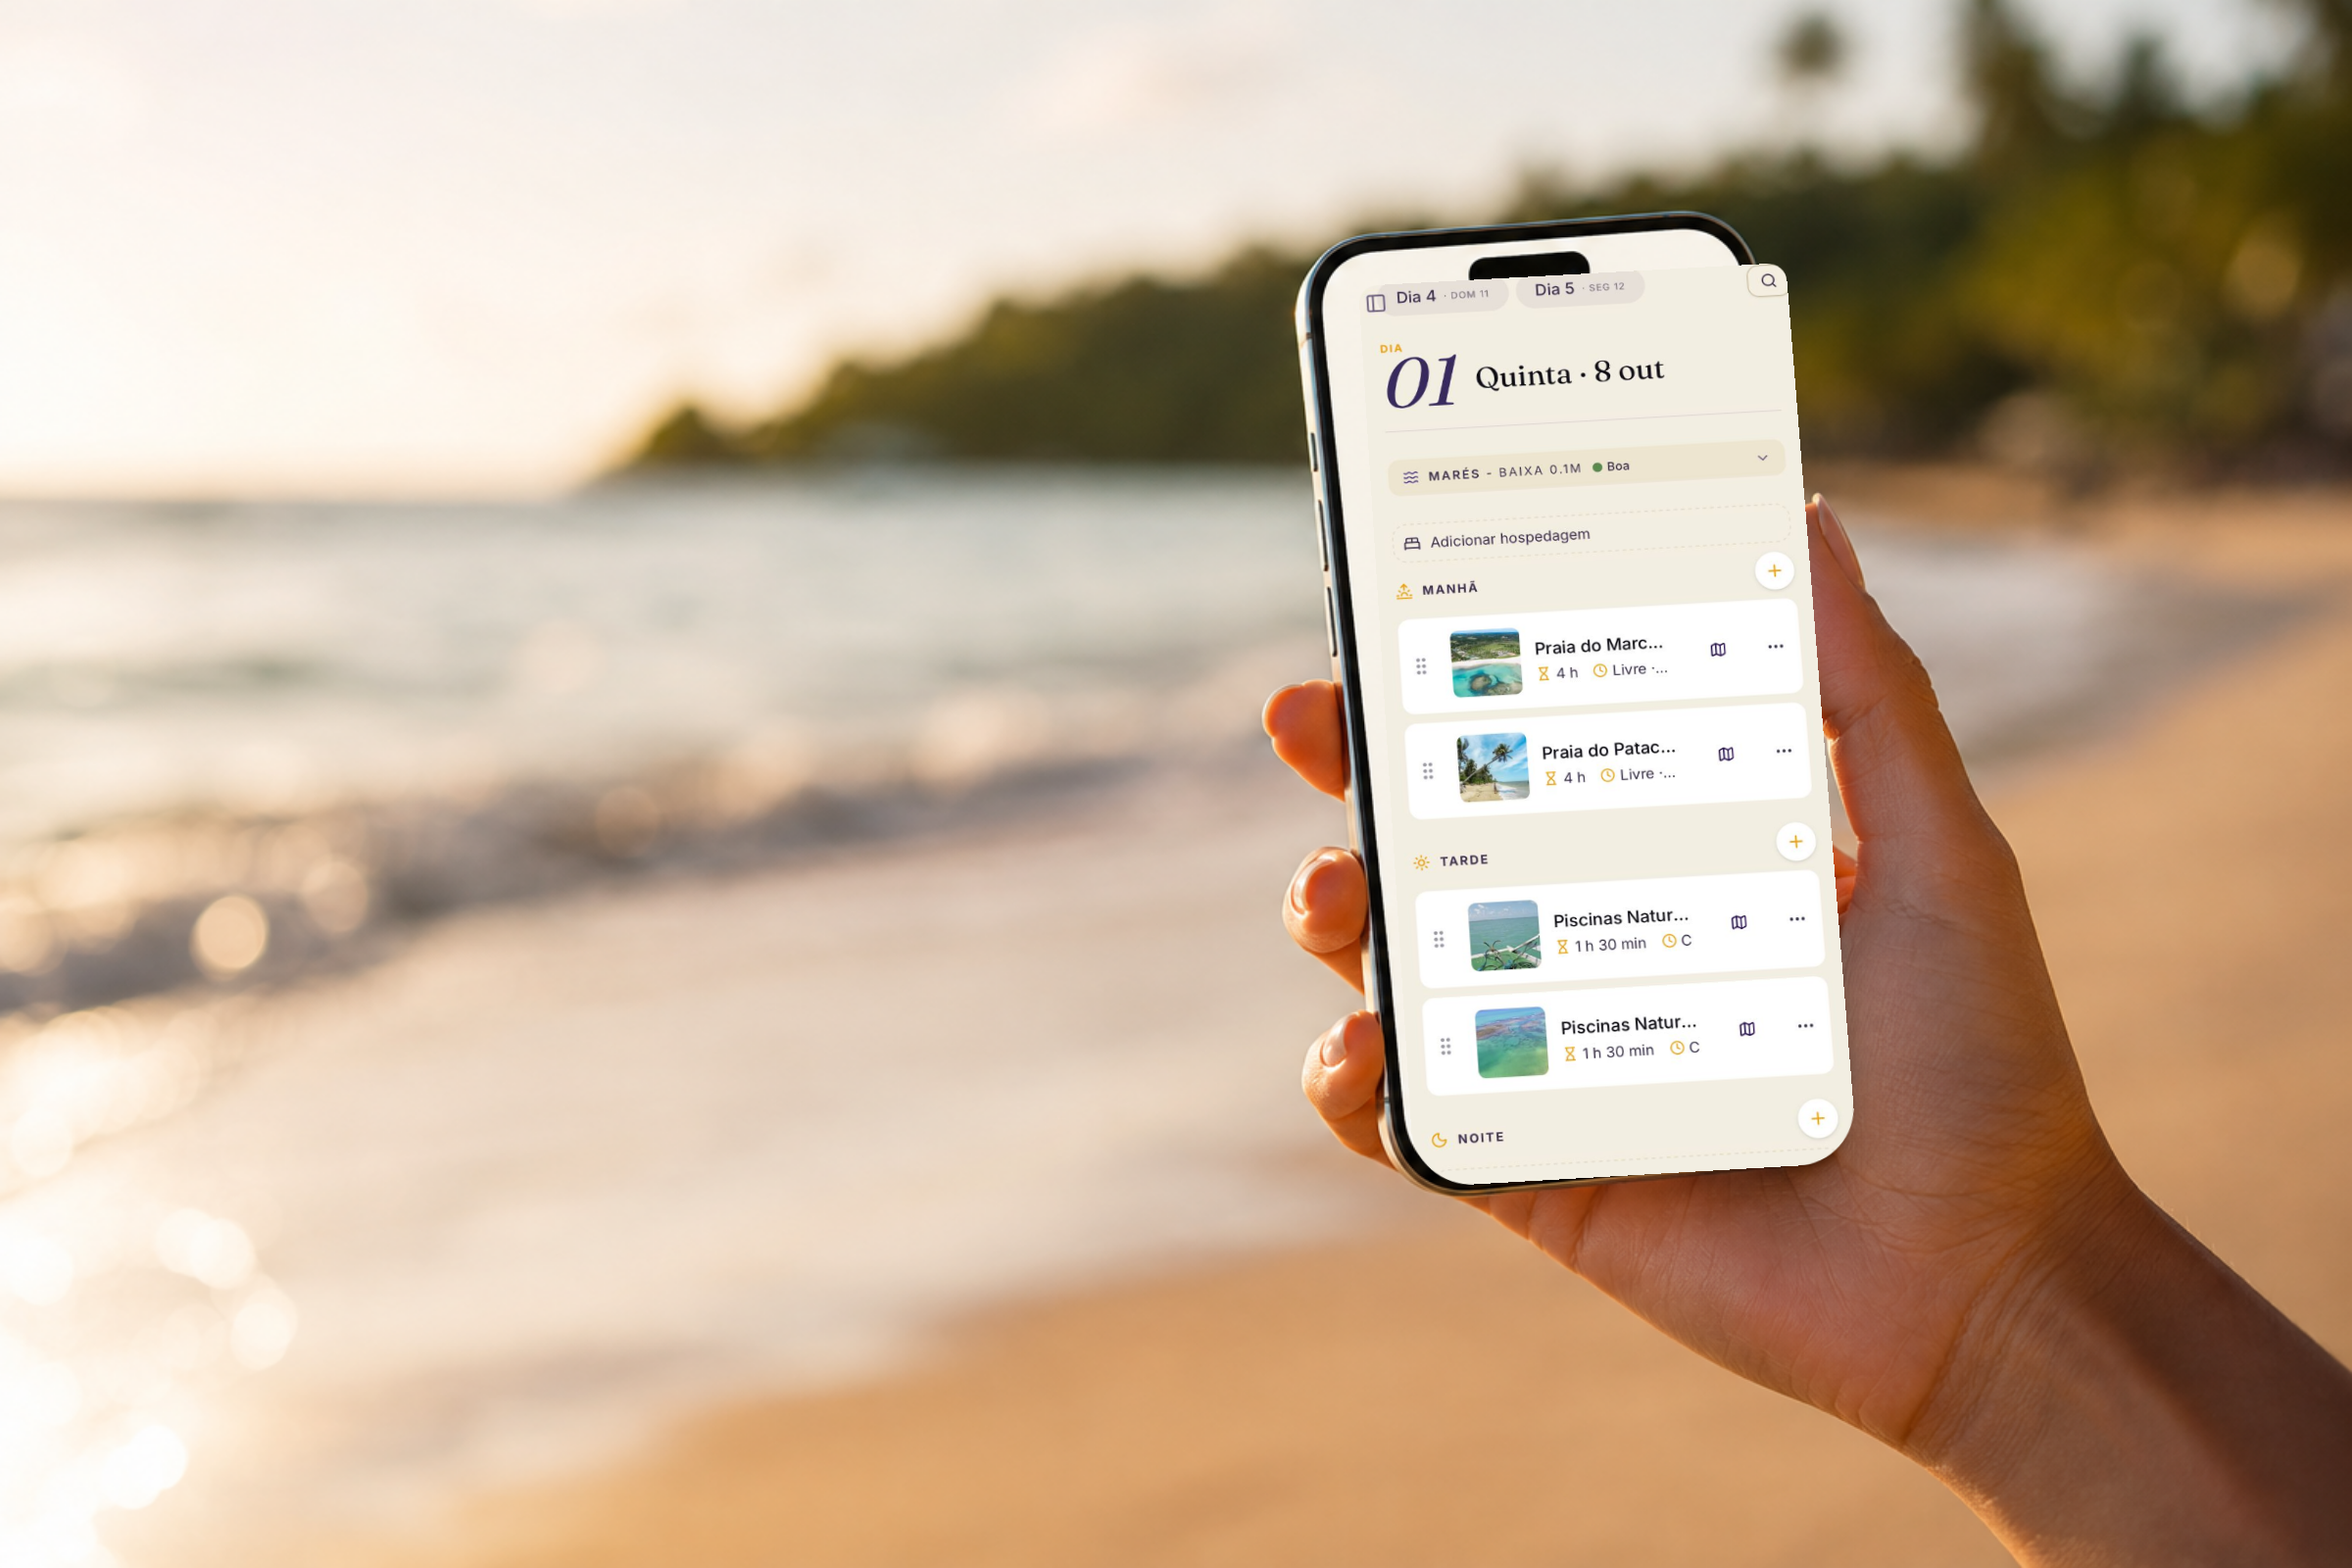
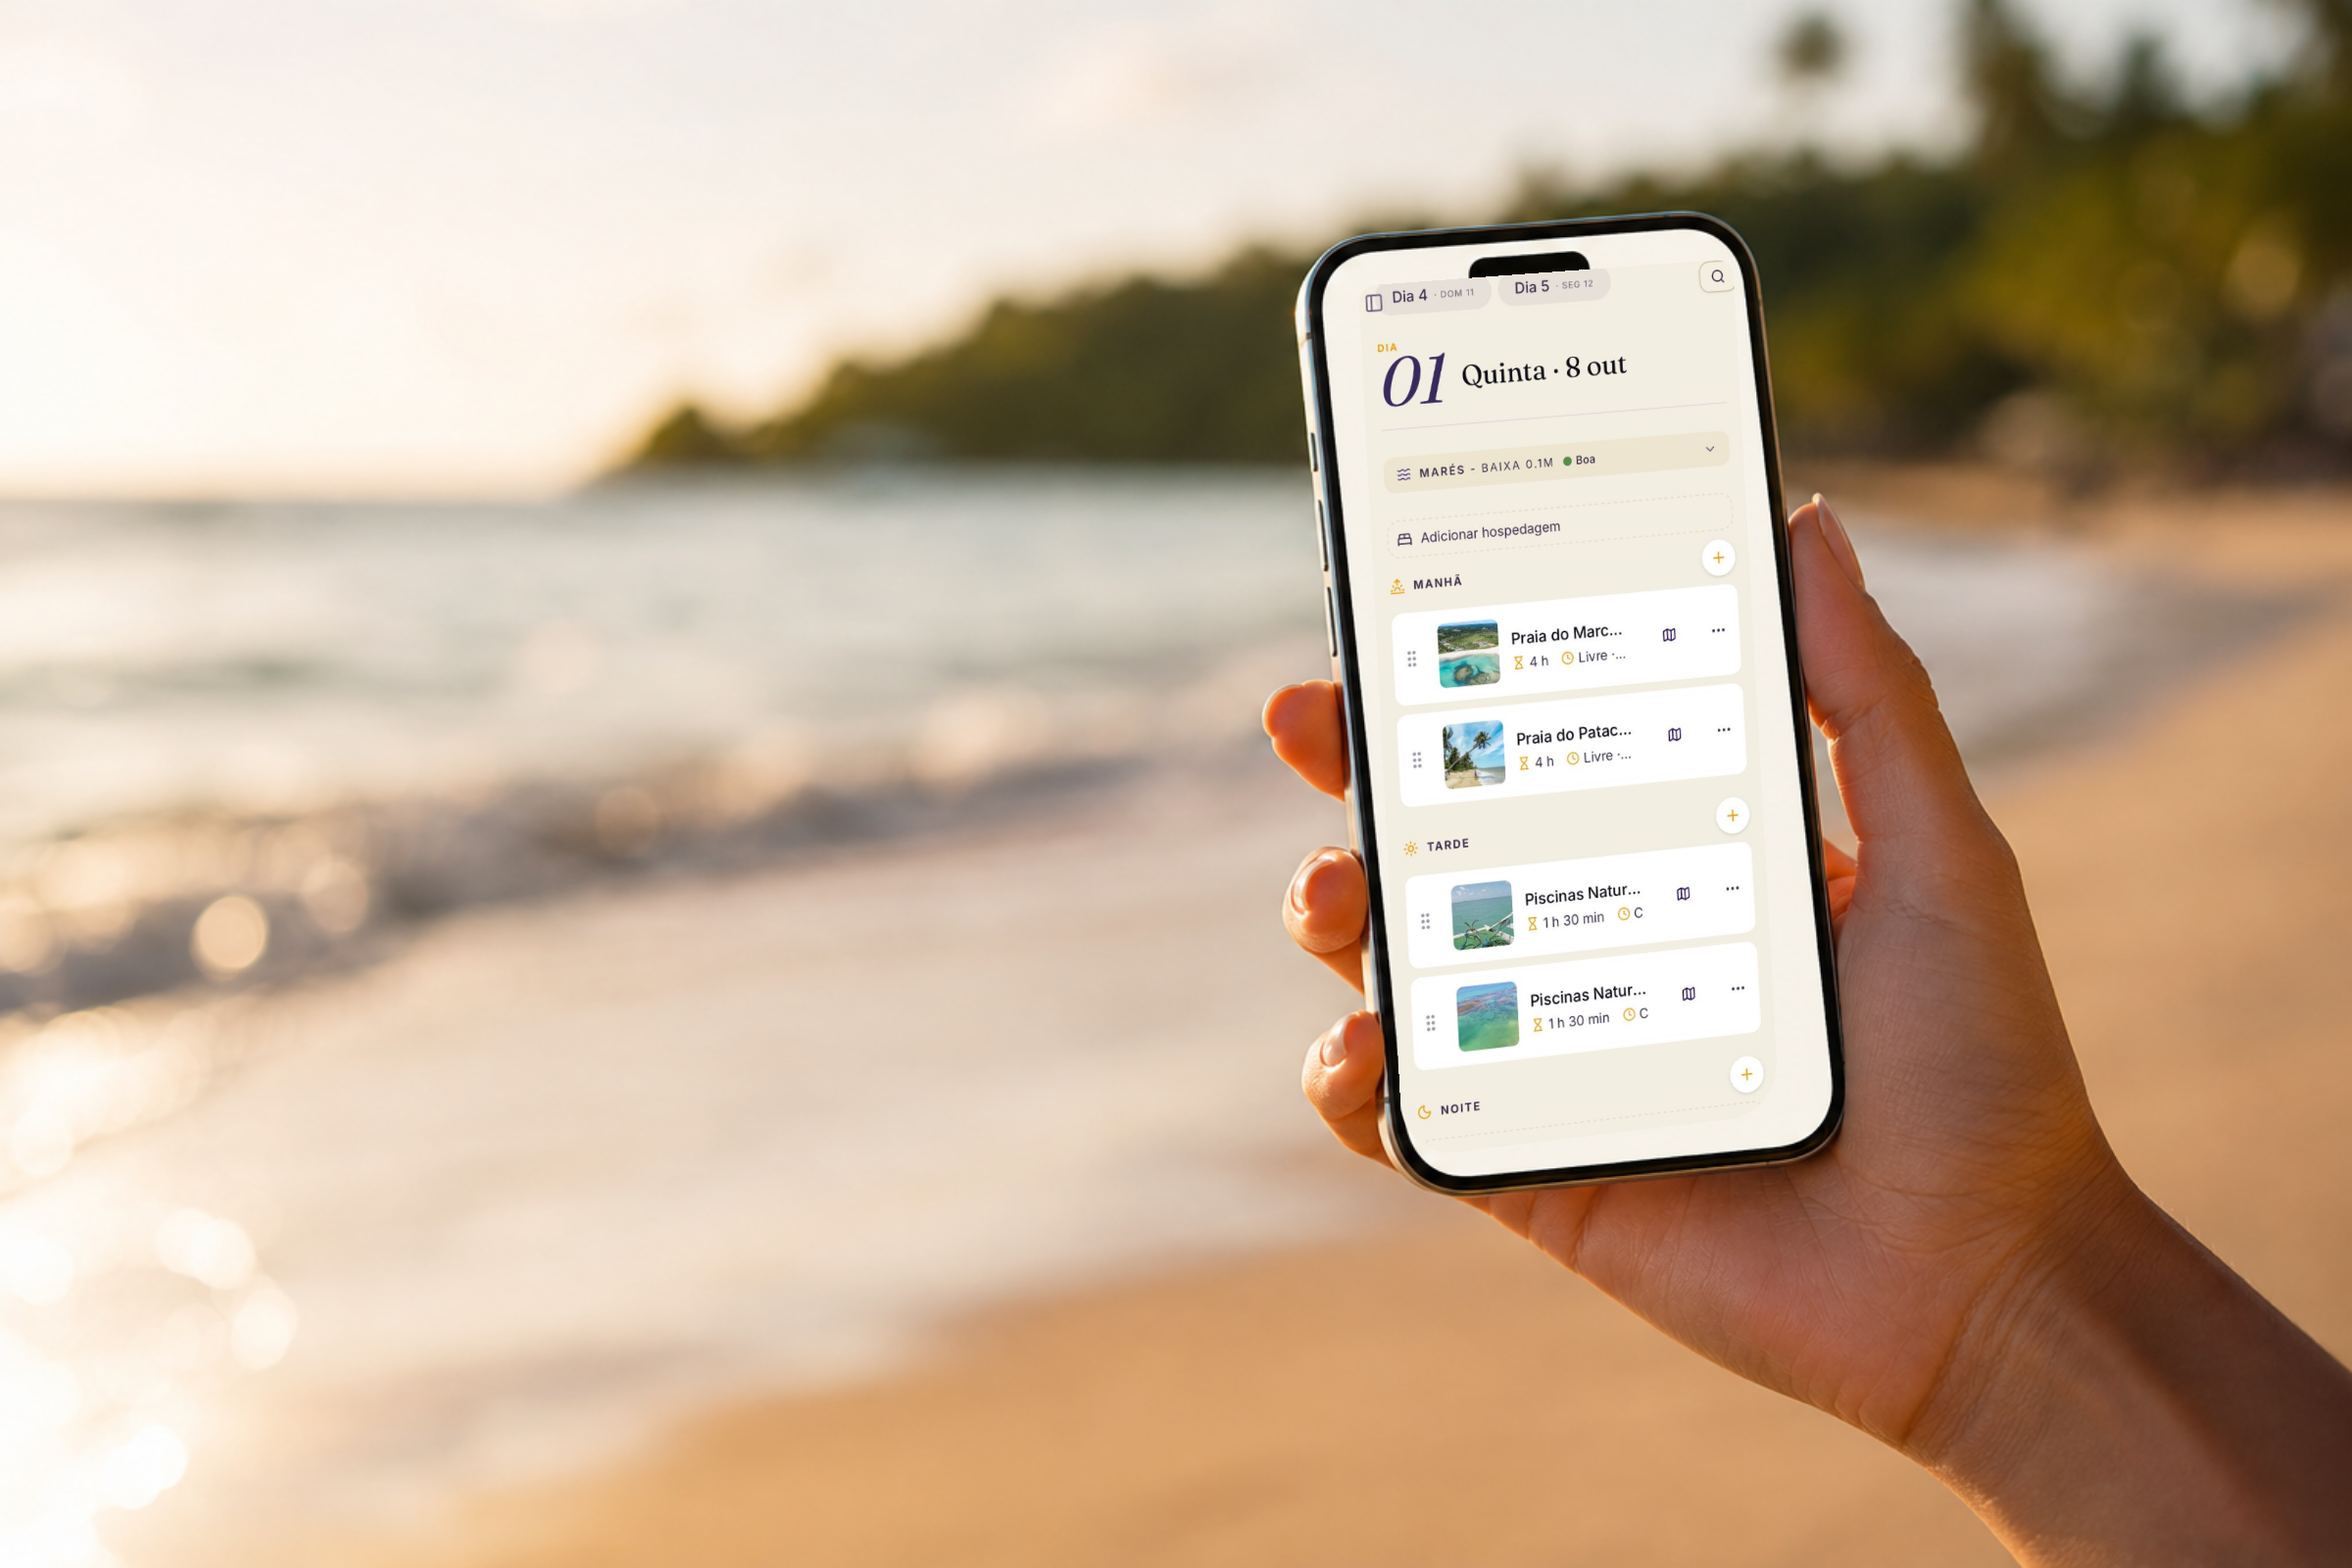
fix: tela do app vazava do vidro no mockup na mao; inspecao 1:1 vira regra
Cantos remedidos por recorte (novo subcomando recortar no render.mjs);
CLAUDE.md ganha a regra de inspecao de juncao por recorte 1:1 — o
quadro inteiro reduzido esconde vazamento de borda, erro pego pelo
Daniel em 2026-08-07.

Changed region(s): [[0.5625, 0.1562, 0.8125, 0.7812], [0.625, 0.1562, 0.6875, 0.1875]]

diff --git a/biblioteca/pecas/2026/2026-08-07-mockup-guia-landing/fonte-mao.html b/biblioteca/pecas/2026/2026-08-07-mockup-guia-landing/fonte-mao.html
@@ -61,7 +61,7 @@
     }
     // Cantos da tela do iPhone no quadro 1200×800: TL, TR, BL, BR
     transform2d(document.getElementById('tela'),
-      693,146,  911,134,  722,606,  948,593);
+      693,146,  884,132,  716,591,  908,568);
   </script>
 </body>
 </html>

diff --git a/CLAUDE.md b/CLAUDE.md
@@ -29,6 +29,7 @@ Peça nasce como **HTML estático + CSS** com os tokens de `design-system/tokens
 
     node tools/render.mjs render <arquivo.html> --out <saida.png> [--largura 1080] [--altura 1080] [--escala 1] [--pagina-inteira]
     node tools/render.mjs tratar <entrada> --out <saida> [--largura N] [--altura N] [--qualidade 80]
+    node tools/render.mjs recortar <entrada> --out <saida> --x N --y N --largura N --altura N
     node tools/render.mjs info <arquivo>
 
 Saída de `info` é JSON (metadata do Sharp). Códigos de saída: `0` ok, `2` erro de uso (conserte a chamada), `1` falha de execução. Formato de `tratar` sai da extensão de `--out` (png/jpg/webp).
@@ -38,6 +39,13 @@ Saída de `info` é JSON (metadata do Sharp). Códigos de saída: `0` ok, `2` er
 1. **Skills por momento**: `impeccable` antes do render de toda peça; `design-taste-frontend`/`frontend-design` em peça tipo landing/apresentação; `dataviz` em qualquer gráfico.
 2. **Gate do brandguide**: checklist da seção 9 de `C:/Users/Danie/.claude/skills/num-pulo-brand-guidelines/SKILL.md` antes de toda entrega.
 3. **Auto-inspeção**: ler o PNG renderizado (tool Read) e auditar contra o brief antes de mostrar ao Daniel.
+4. **Inspeção de junção é por recorte 1:1, nunca no quadro inteiro.** O Read mostra a
+   peça reduzida: vazamento de 10-30px (tela fora do device, borda sobre bezel,
+   emenda de composição) fica invisível — foi assim que uma peça saiu errada em
+   2026-08-07 e o Daniel pegou. Em toda composição sobre foto (screen-em-device,
+   recorte, máscara), recortar com `render.mjs recortar` cada canto/borda crítica do
+   PNG final e inspecionar os recortes. Medição de cantos na imagem base também é
+   por recorte 1:1; estimativa a olho no quadro inteiro erra por dezenas de pixels.
 
 ## Dois sistemas visuais — roteamento
 
